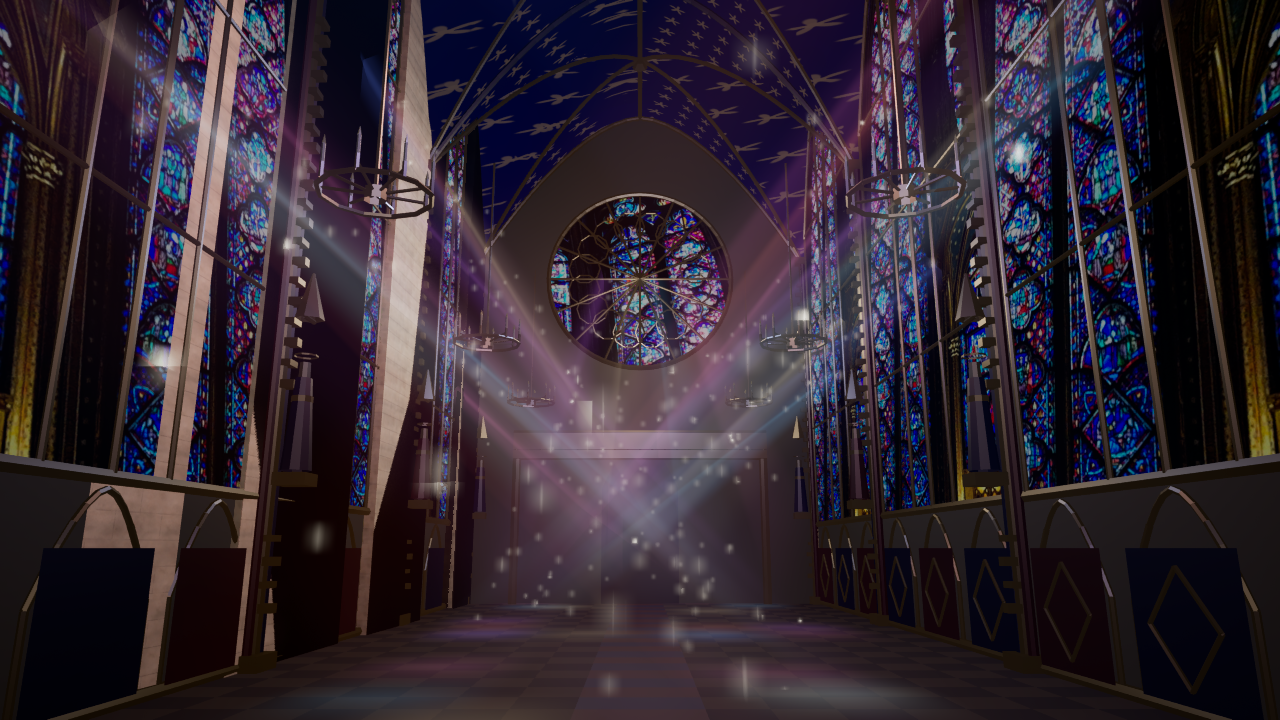
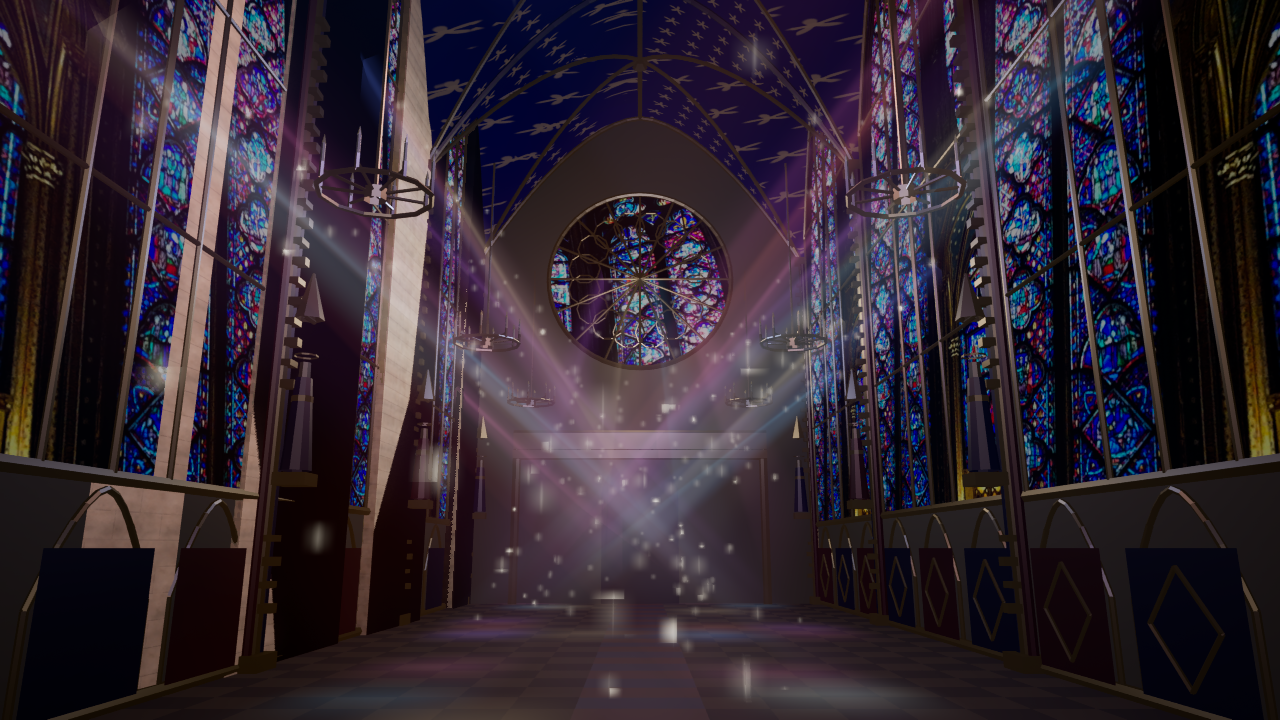
Fix chapel interior whiteout and dark overview after leaving the chapel

diff --git a/unreal/AIWorld/Source/AIWorld/ParisChapelle.cpp b/unreal/AIWorld/Source/AIWorld/ParisChapelle.cpp
@@ -267,22 +267,24 @@ void AParisChapelleDetail::Tick(float DeltaSeconds){
     // Interior meshes and lights are drawn only while the viewer is inside, so the exterior view pays nothing.
     // "Inside" is decided by where the camera actually is, so flying or walking in works as well as the fixed views.
     auto PC=GetWorld()?GetWorld()->GetFirstPlayerController():nullptr;bool Inside=false;
-    if(PC&&PC->PlayerCameraManager){const FVector L=GetActorTransform().InverseTransformPosition(PC->PlayerCameraManager->GetCameraLocation());Inside=L.X>-2200&&L.X<1700&&FMath::Abs(L.Y)<660&&L.Z>InFloor-40&&L.Z<InCrown;}
+    if(PC&&PC->PlayerCameraManager){const FVector L=GetActorTransform().InverseTransformPosition(PC->PlayerCameraManager->GetCameraLocation());Inside=L.X>InApseX-InApseR&&L.X<InPiers[4]-10&&FMath::Abs(L.Y)<InWallY-15&&L.Z>InFloor-20&&L.Z<InCrown;}
     SetActorTickInterval(Inside?0.f:.2f);
-    InnerSolid->SetVisibility(Inside);InnerGlass->SetVisibility(Inside);InnerVault->SetVisibility(Inside);InnerBeams->SetVisibility(Inside);for(auto L:InnerLights)L->SetVisibility(Inside);
+    InnerSolid->SetVisibility(Inside);InnerGlass->SetVisibility(Inside);InnerVault->SetVisibility(Inside);InnerBeams->SetVisibility(Inside);Glass->SetVisibility(!Inside);for(auto L:InnerLights)L->SetVisibility(Inside);
     // Keep a free-flying camera within the nave (there is no collision on the procedural shell).
     if(Inside&&PC){if(auto Cam=Cast<AParisTwinCamera>(PC->GetPawn()))if(Cam->bEye&&PC->GetViewTarget()==Cam){
         FVector L=GetActorTransform().InverseTransformPosition(Cam->Target);L.X=FMath::Clamp(L.X,-2000.,1560.);L.Y=FMath::Clamp(L.Y,-540.,540.);L.Z=FMath::Clamp(L.Z,InFloor+60.,InCrown-200.);Cam->Target=GetActorTransform().TransformPosition(L);}}
+    // While inside, the interior look is enforced every tick: other systems (time of day, weather,
+    // reference grade) may re-apply the outdoor environment at any moment and would wash out the nave.
+    if(Inside){
+        for(TActorIterator<APostProcessVolume> It(GetWorld());It;++It)if(It->ActorHasTag(TEXT("ParisPhotoEnvironment"))){auto& P=It->Settings;P.bOverride_CameraISO=true;P.CameraISO=InteriorISO;P.bOverride_CameraShutterSpeed=true;P.CameraShutterSpeed=InteriorShutter;P.bOverride_AutoExposureBias=true;P.AutoExposureBias=0.f;P.bOverride_BloomIntensity=true;P.BloomIntensity=.9f;P.bOverride_BloomThreshold=true;P.BloomThreshold=1.f;}
+        for(TActorIterator<ASkyLight> It(GetWorld());It;++It)if(It->ActorHasTag(TEXT("ParisPhotoEnvironment"))&&It->GetLightComponent()->Intensity!=0.f)It->GetLightComponent()->SetIntensity(0.f);
+        for(TActorIterator<ADirectionalLight> It(GetWorld());It;++It)if(It->ActorHasTag(TEXT("ParisPhotoEnvironment"))&&It->GetLightComponent()->Intensity!=0.f)It->GetLightComponent()->SetIntensity(0.f);
+        for(TActorIterator<AExponentialHeightFog> It(GetWorld());It;++It)if(It->ActorHasTag(TEXT("ParisPhotoEnvironment"))&&It->GetComponent()->FogDensity!=0.f)It->GetComponent()->SetFogDensity(0.f);
+    }
     if(Inside!=bWasInside){
         bWasInside=Inside;
-        if(Inside){
-            // The scene uses fixed daylight camera exposure; the nave is a candle-and-glass interior, so use a
-            // dark-adapted exposure and silence the outdoor sun, sky and haze (they would leak through the shell mesh).
-            for(TActorIterator<APostProcessVolume> It(GetWorld());It;++It)if(It->ActorHasTag(TEXT("ParisPhotoEnvironment"))){auto& P=It->Settings;P.bOverride_CameraISO=true;P.CameraISO=400.f;P.bOverride_CameraShutterSpeed=true;P.CameraShutterSpeed=30.f;P.bOverride_AutoExposureBias=true;P.AutoExposureBias=0.f;P.bOverride_BloomIntensity=true;P.BloomIntensity=1.6f;P.bOverride_BloomThreshold=true;P.BloomThreshold=.7f;}
-            for(TActorIterator<ASkyLight> It(GetWorld());It;++It)if(It->ActorHasTag(TEXT("ParisPhotoEnvironment")))It->GetLightComponent()->SetIntensity(0.f);
-            for(TActorIterator<ADirectionalLight> It(GetWorld());It;++It)if(It->ActorHasTag(TEXT("ParisPhotoEnvironment")))It->GetLightComponent()->SetIntensity(0.f);
-            for(TActorIterator<AExponentialHeightFog> It(GetWorld());It;++It)if(It->ActorHasTag(TEXT("ParisPhotoEnvironment")))It->GetComponent()->SetFogDensity(0.f);
-        }else if(Scene)Scene->ApplyEnvironmentPreset(); // rebuilds sun, sky, fog and exposure for the current time of day
+        UE_LOG(LogTemp,Display,TEXT("PARIS_CHAPELLE_INSIDE=%d"),Inside?1:0);
+        if(!Inside&&Scene)Scene->ApplyEnvironmentPreset(); // rebuilds sun, sky, fog and exposure for the current time of day
     }
 }
 void AParisChapelleDetail::ToggleInterior(AParisTwinController* PC){

diff --git a/unreal/AIWorld/Source/AIWorld/ParisDigitalTwin.cpp b/unreal/AIWorld/Source/AIWorld/ParisDigitalTwin.cpp
@@ -708,6 +708,8 @@ void AParisTwinScene::Tick(float Delta) {
     }
     if(bWalkLaunchPending&&Age>.1){if(auto PC=Cast<AParisTwinController>(GetWorld()->GetFirstPlayerController()))if(PC->EnterWalk(FParse::Param(FCommandLine::Get(),TEXT("ParisTwinThirdPerson"))))bWalkLaunchPending=false;if(Age>15)bWalkLaunchPending=false;}
     if(bIssues)for(const auto& Issue:Issues)for(const auto& Line:Array(Issue,TEXT("polylines_cm"))){const auto& Points=Line->AsArray();for(int32 I=1;I<Points.Num();I++){FVector A,B;if(Vector(Points[I-1],A)&&Vector(Points[I],B))DrawDebugLine(GetWorld(),A,B,String(Issue,TEXT("kind"))==TEXT("building_overlap")?FColor(235,65,92):FColor(245,161,46),false,-1,0,2);}}
+    // Diagnostic: switch to the overview after N seconds (reproduces pressing F2 from a landmark/interior view).
+    {static bool bOverviewDone=false;double OverviewAfter=0;FParse::Value(FCommandLine::Get(),TEXT("ParisTwinOverviewAfter="),OverviewAfter);if(OverviewAfter>0&&!bOverviewDone&&Age>OverviewAfter){bOverviewDone=true;if(auto PC=Cast<AParisTwinController>(GetWorld()->GetFirstPlayerController()))PC->Overview();}}
     double CaptureAfter=8;FParse::Value(FCommandLine::Get(),TEXT("ParisTwinCaptureAfter="),CaptureAfter);if(!FMath::IsFinite(CaptureAfter))CaptureAfter=8;
     if(!bCaptured&&Age>FMath::Clamp(CaptureAfter,1.,120.)&&FParse::Param(FCommandLine::Get(),TEXT("ParisTwinCapture"))){
         if(!FParse::Param(FCommandLine::Get(),TEXT("ParisTwinSeatingView"))){bCaptured=true;Capture();}

diff --git a/unreal/AIWorld/Source/AIWorld/ParisChapelle.h b/unreal/AIWorld/Source/AIWorld/ParisChapelle.h
@@ -19,7 +19,7 @@ public:
     bool CycleView(APlayerController* PC);
     void ToggleInterior(AParisTwinController* PC);
     virtual void Tick(float DeltaSeconds) override;
-    int32 ViewIndex=0;bool bInteriorBuilt=false;bool bWasInside=false;bool bSavedExposure=false;float SavedISO=100,SavedShutter=125;
+    int32 ViewIndex=0;bool bInteriorBuilt=false;bool bWasInside=false;bool bSavedExposure=false;float SavedISO=100,SavedShutter=125;float InteriorISO=400,InteriorShutter=30;
     bool bReady=false;
     int32 WindowCount=0,ButtressCount=0;
     double SpireHeightCm=0;
